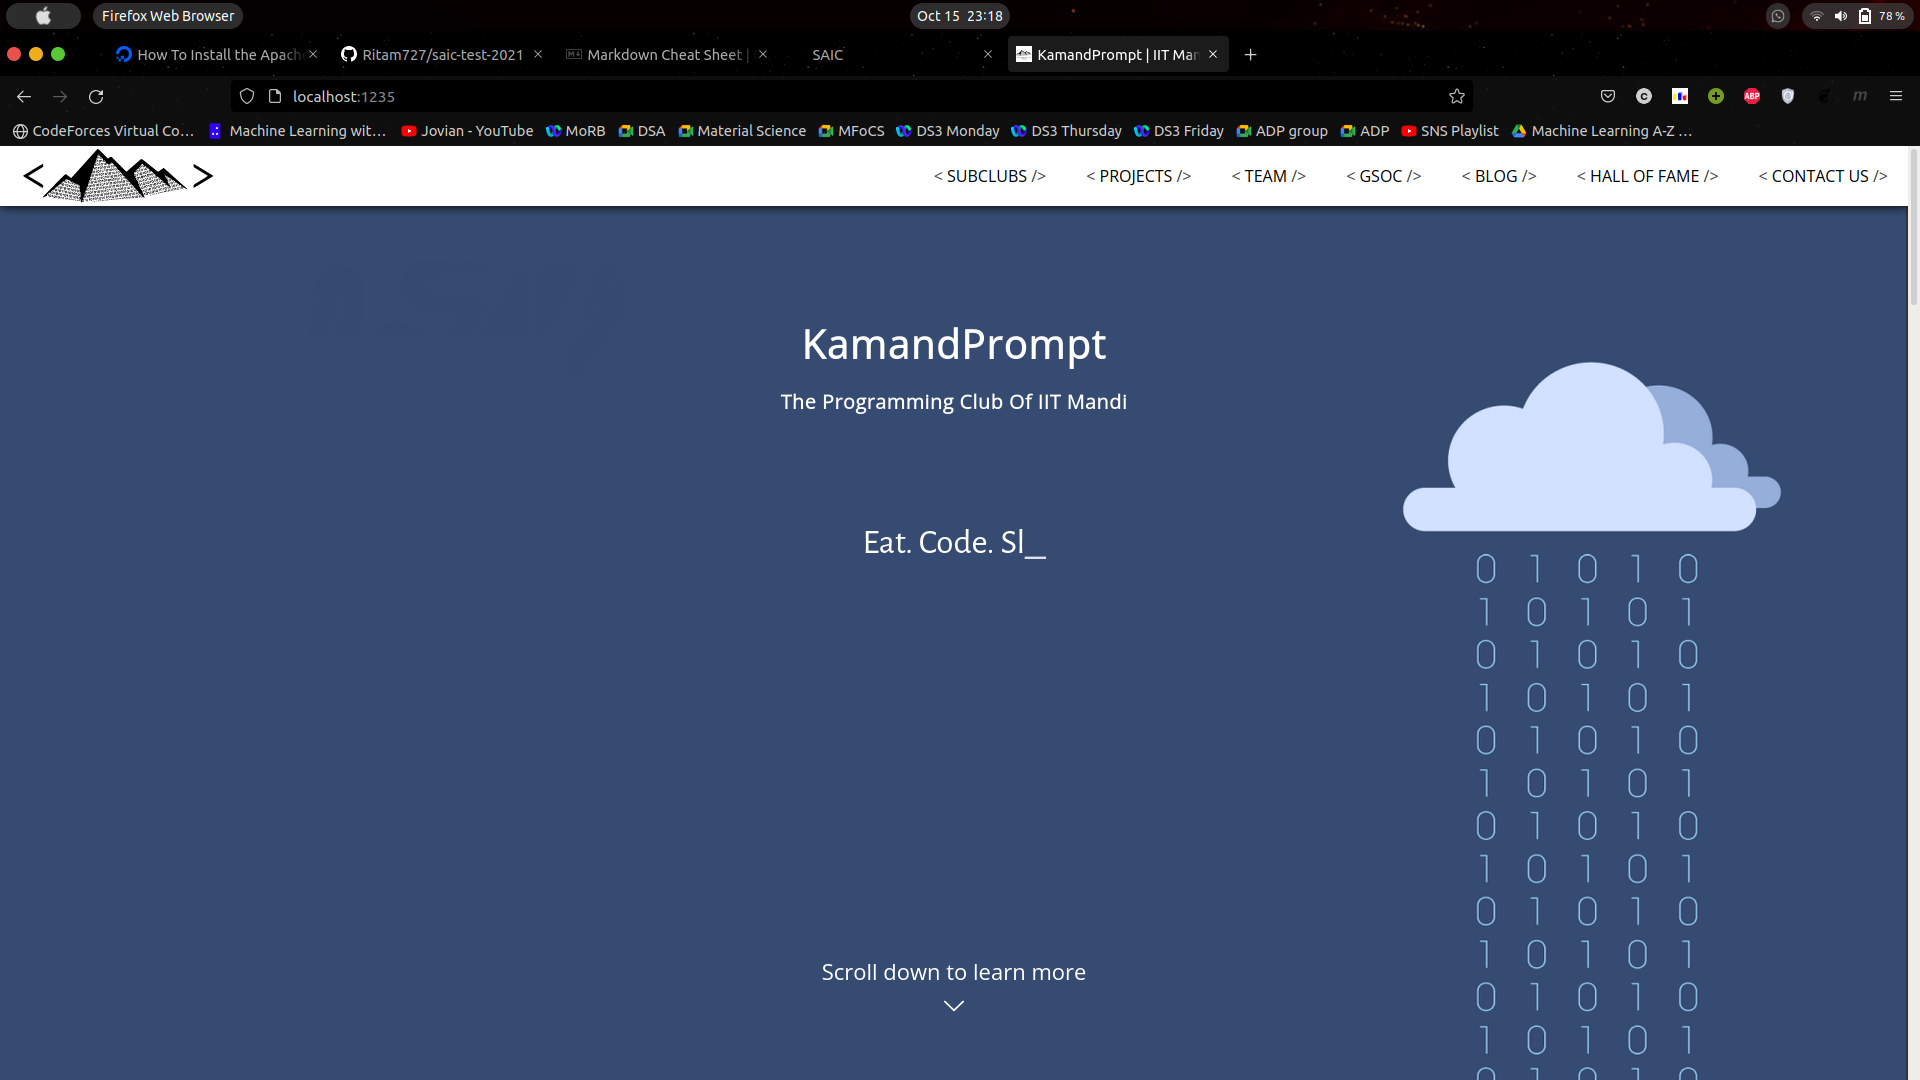
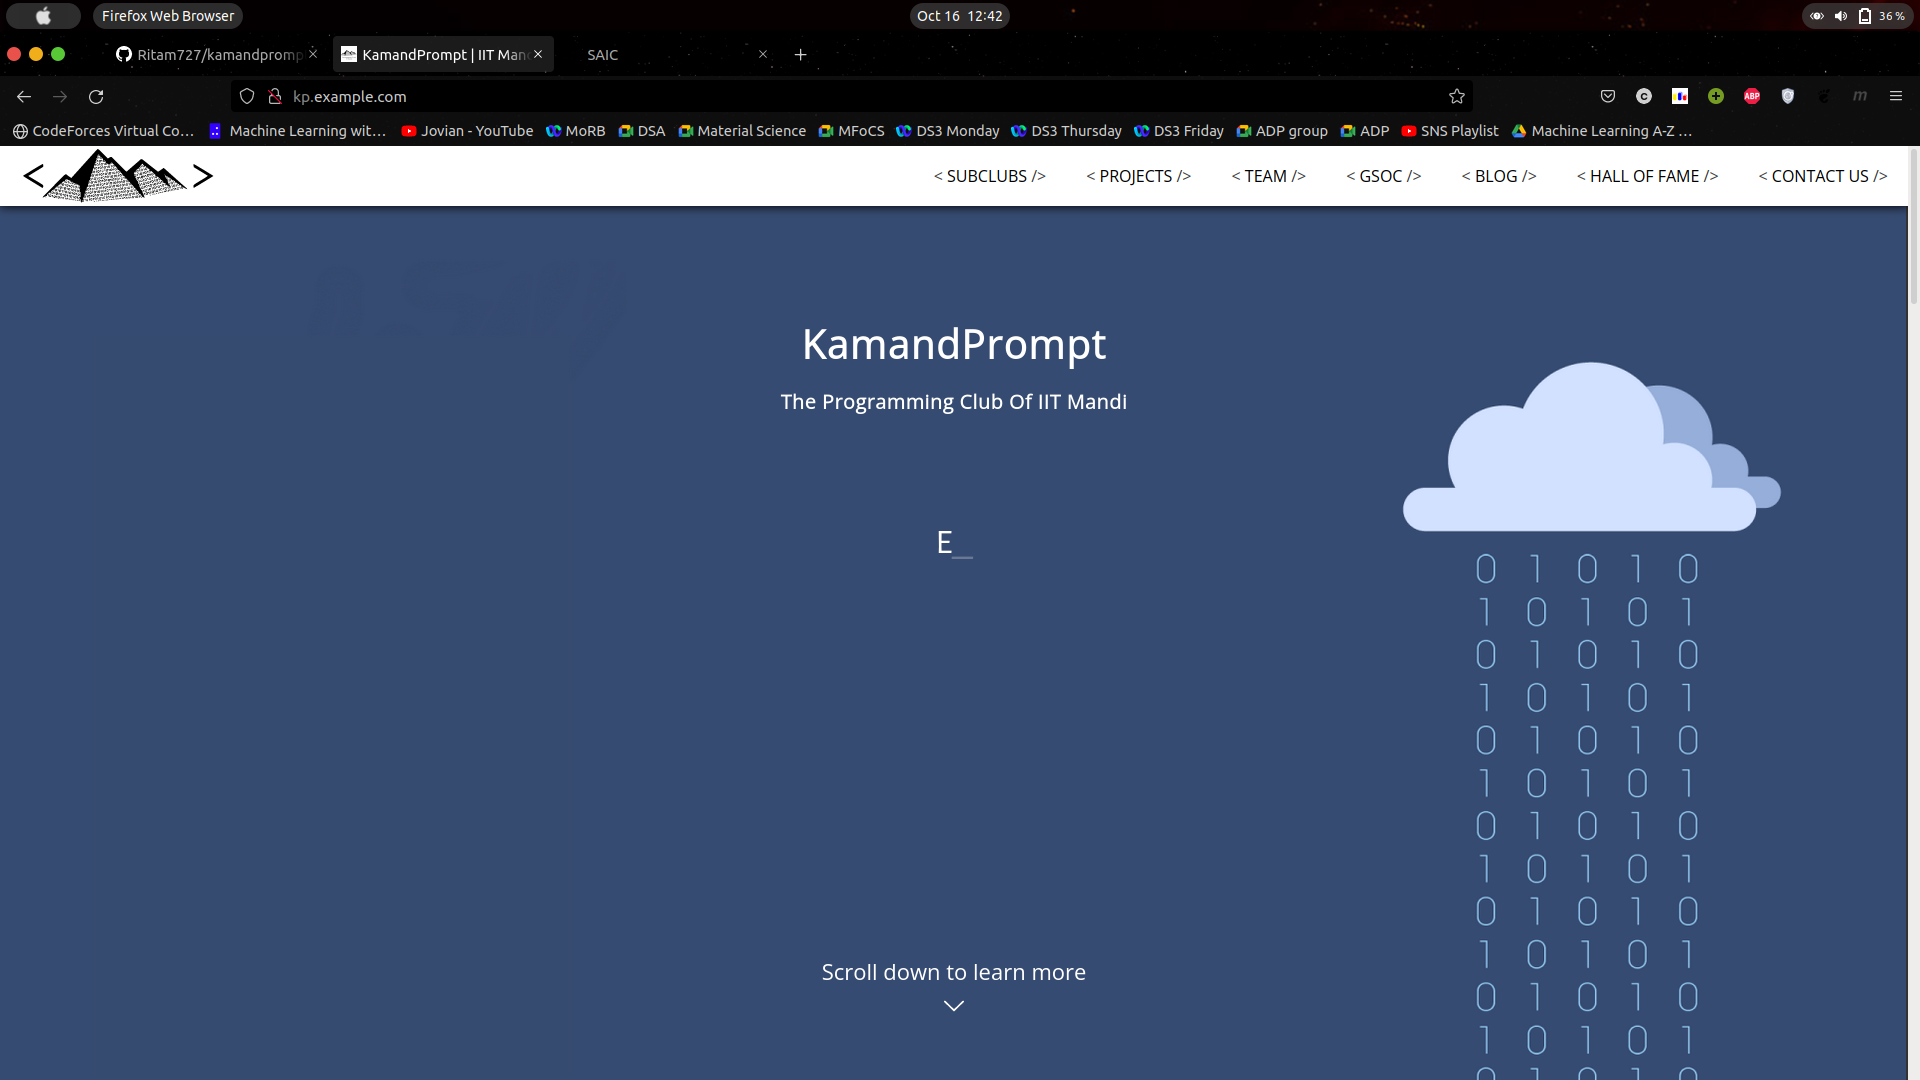
Corrected Task3

diff --git a/task3.md b/task3.md
@@ -1,69 +1,120 @@
 # Task 3
 After installing docker, I was basically lost, I didn't know anything about how the program works. So all I had with me was our best friend **Google**.
 
-Since we had to host two *static websites*, so I decided to simply implement a workflow only with static websites. Since hosting works with a server, I had to find a way to use a server and host the websites on it using docker. So I first tested out with a basic **Hello World** html file and the httpd image from docker which uses apache web server.
+Since we had to host two *static websites*, so I decided to simply implement a workflow only with static websites. Since hosting works with a server, I had to find a way to use a server and host the websites on it using docker. So I first tested out with a basic **Hello World** html file and the apache2 image from docker which uses apache web server. This was a fairly easy task since we ran a single website on a single docker. But the main challenge here is to run both websites  from the same container.
 
-I used the following steps to run the websites mentioned to run the SAIC-Website:
-1. Forked and cloned the repositories in my local system:
-    
+So I did the following steps:
+1. Create a new directory and clone both the repositories in that directory:
+
+    `$ mkdir saic_test && cd saic_test/`
+
+    `$ git clone git@github.com:Ritam727/kamandprompt.github.io.git`
+
     `$ git clone git@github.com:Ritam727/SAIC-Website.git`
-2. Created a Dockerfile mentioning the required packages to use a webserver(in my case its httpd image from docker which uses apache):
+2. Create a Dockerfile and configure the commands and server to use:
 
-    `$ cd SAIC-Website/`
-    
     `$ nano Dockerfile`
 
-    Inside the editor I wrote the following lines:
+    Inside the editor, I wrote the following lines:
+
     ```
-    FROM httpd:2.4
-    COPY . /usr/local/apache2/htdocs/
+    FROM ubuntu/apache2:2.4-20.04_beta
+    COPY SAIC-Website/. /var/www/saic.example.com
+    COPY saic.example.com.conf /etc/apache2/sites-available/
+    RUN a2dissite 000-default.conf
+    RUN a2ensite saic.example.com
+    RUN echo '127.0.0.1 saic.example.com' >> /etc/hosts
+    COPY kamandprompt.github.io/. /var/www/kp.example.com
+    COPY kp.example.com.conf /etc/apache2/sites-available/
+    RUN a2ensite kp.example.com
+    RUN echo '127.0.0.1 kp.example.com' >> /etc/hosts
+    RUN service apache2 start
     ```
-    What this code does is simple, it installs the httpd package and copies the files from the working directory to the `/usr/local/apache2/htdocs` directory in server system.
-3. Then I ran created the image file using the `build` command of docker:
+3. Create the files mentioned in the Dockerfile and enter the following lines:
 
-    `$ sudo docker build -t <user-name>/<image-name>:[TAG] .`
+    `$ nano saic.example.com.conf`
 
-    For my case, I used the following command:
+    Inside the file enter the following lines and save the file:
+    
+    ```
+    <VirtualHost>
+        ServerName saic.example.com
+        DocumentRoot /var/www/saic.example.com
+    </VirtualHost>
+    ```
 
-    `$ sudo docker build -t zblaster/saic_website:latest .`
+    `$ nano kp.example.com.conf`
 
-    This creates a docker image with the name zblaster/saic_website and tags it latest.
-4. Then I created a container using the `run` command that uses the image we just created and hosts the site on the server:
+    Inside the editor, enter the following lines and save the file:
 
-    `$ sudo docker run -dit --name <container-name> -p [PORT_ON_LOCALHOST]:80 <user-name>/<image-name>:[TAG]`
+    ```
+    <VirtualHost>
+        ServerName kp.example.com
+        DocumentRoot /var/www/kp.example.com
+    </VirtualHost>
+    ```
+4. Change the file called etc/hosts in my **local machine**(this step is necessary):
 
-    For my case, the following command was used:
+    `$ sudo nano /etc/hosts`
 
-    `$ sudo docker run -dit --name saic_website -p 1234:80 zblaster/saic_website:latest`
+    Add the following lines to the end of the file:
 
-    This basically sets up the server and hosts the website on the server. In my case, the server would be hosted on `http://localhost:1234`.
-5. Then to publish the image, I used the `push` command of docker to push the repository to [Docker hub](https://hub.docker.com) on my repository:
+    ```
+    127.0.0.1       saic.example.com
+    127.0.0.1       kp.example.com
+    ```
 
-    `$ docker push <user-name>/<package-name>:[TAG]`
+    This change ensures that the above domains work in the local system.
+5. Then I used `build` command to build the *container*.
+    
+    `$ sudo docker build -t zblaster/saic_test:latest .`
 
-    In my case the command was:
+    This builds the image and makes it ready for publication. For running the image:
 
-    `$ docker push zblaster/saic_website:latest`
+    `$ sudo docker run -dit --name saic -p 80:80 zblaster/saic_test:latest`
 
-    This published the image file on the web and anyone who wishes to test the server can first install apache2 and start the process and then use the following command to clone the package to run the server:
-
-    `$ sudo docker run -dit --name <container-name> -p [PORT]:80 zblaster/saic_website:latest`
-
-The steps to run the Kamandprompt website were similar. The only changes were in the *package-name* in the commands and the port I used was `1235` instead of `1234`, since the former was already running in port `1234`. The package-name is kp_website.
+    This command runs the image on port 80 of the above mentioned domains.
 
 **Saic Website**
+![Saic Image](/images/task3_saic.png)
 
-![Saic_Website](/images/task3_saic.png)
+We can see that the SAIC website is up and running on `saic.example.com`
 
-**Kamandprompt Website**
-![Kp_Website](/images/task3_kp.png)
+**KamandPrompt Website**
+![KamandPrompt Image](/images/task3_kp.png)
+
+We can see that the KamandPrompt website is up and running on `kp.example.com`
+
+Then I published the image to [Docker Hub](https://hub.docker.com):
+
+`$ sudo docker push zblaster/saic_website:latest`
+
+So, if anybody on the internet wants to use it, they can run the docker and then make a few necessary changes to `/etc/hosts` file and they are good to go:
+
+`$ sudo docker run -dit --name <container-name> -p [PORT]:80 zblaster/saic_test:latest`
+
+`$ sudo nano /etc/hosts`
+
+Add the following lines, save the file and close the editor:
+
+```
+127.0.0.1       saic.example.com
+127.0.0.1       kp.example.com
+```
+
+Then the users can check the sites on `saic.example.com:<PORT>` and `kp.example.com:<PORT>`, where `<PORT>` has to be replaced by the port they specified in the command.
+
 
 ---
 ---
 
-Performing this task, I came to learn about what the **docker**  program does and how to use it. It is basically used for creating *Containers* to ship applications to test them out before publishing it. We can test out the look and feel of Operating Systems before deploying them with a kernel, or test out websites by hosting them locally. In this task we were to host two websites locally, which we can easily do within a few minutes if the website is ready. This helps us to test out how the website would look and function in a web server using the same application that we use in the *Container*. In our case its an apache server, which is one of the most commonly used web servers. I did not use that directly in the container, instead I used httpd, which is available as a docker image and uses apache to host the website.
 
-References used:
-1. Google
-2. [Docker Documentation](https://docs.docker.com)
-3. [httpd Documentation](https://hub.docker.com/_/httpd)
+# What I learnt
+After completing this challenge, I became a little familiar with docker and docker images, and how most of the static websites are hosted on the internet. Most of the websites run on a server and completing this task, I found myself familiar with how servers are installed and how they work.
+
+# Difficulties faced
+After I hosted a basic single website container with docker, I was stuck ( believe me it was for a long time :| ). I couldn't out a way to host multiple websites on the same container. Whenever I searched for something on *Google*, it gave me how to host them on the webservers themselves rather than on docker. So, I had to find out a workaround. I learnt how we set up the apache server for multiple websites using VirtualHost and then applied that indirectly in the docker image.
+
+# References used:
+1. A lot of Google searches
+2. [Docker documentation](https://docs.docker.com)
